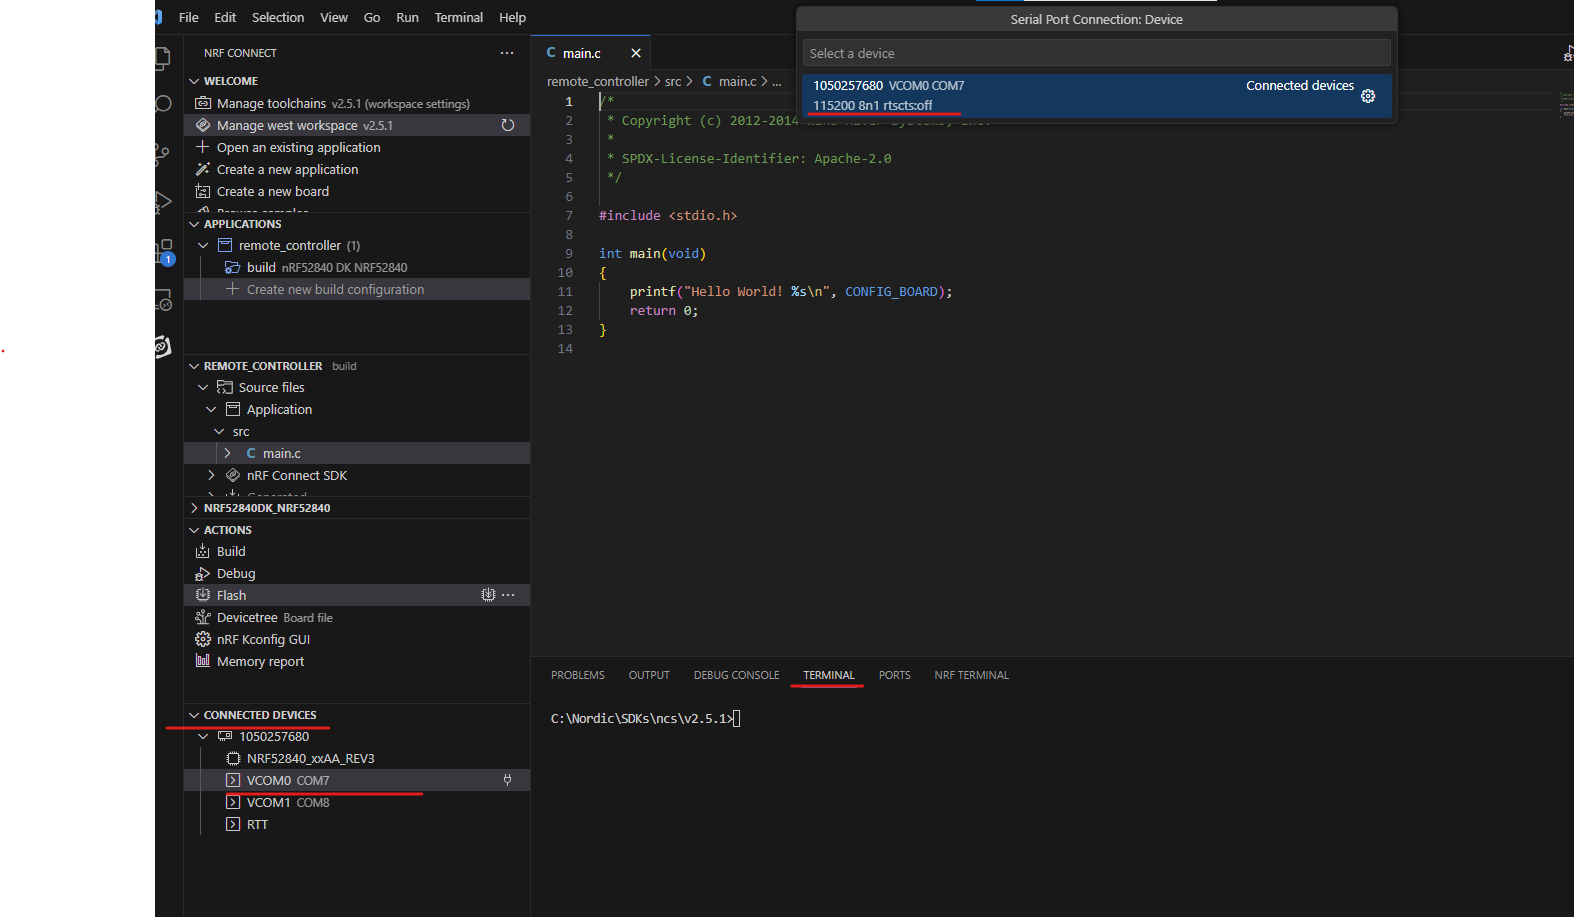
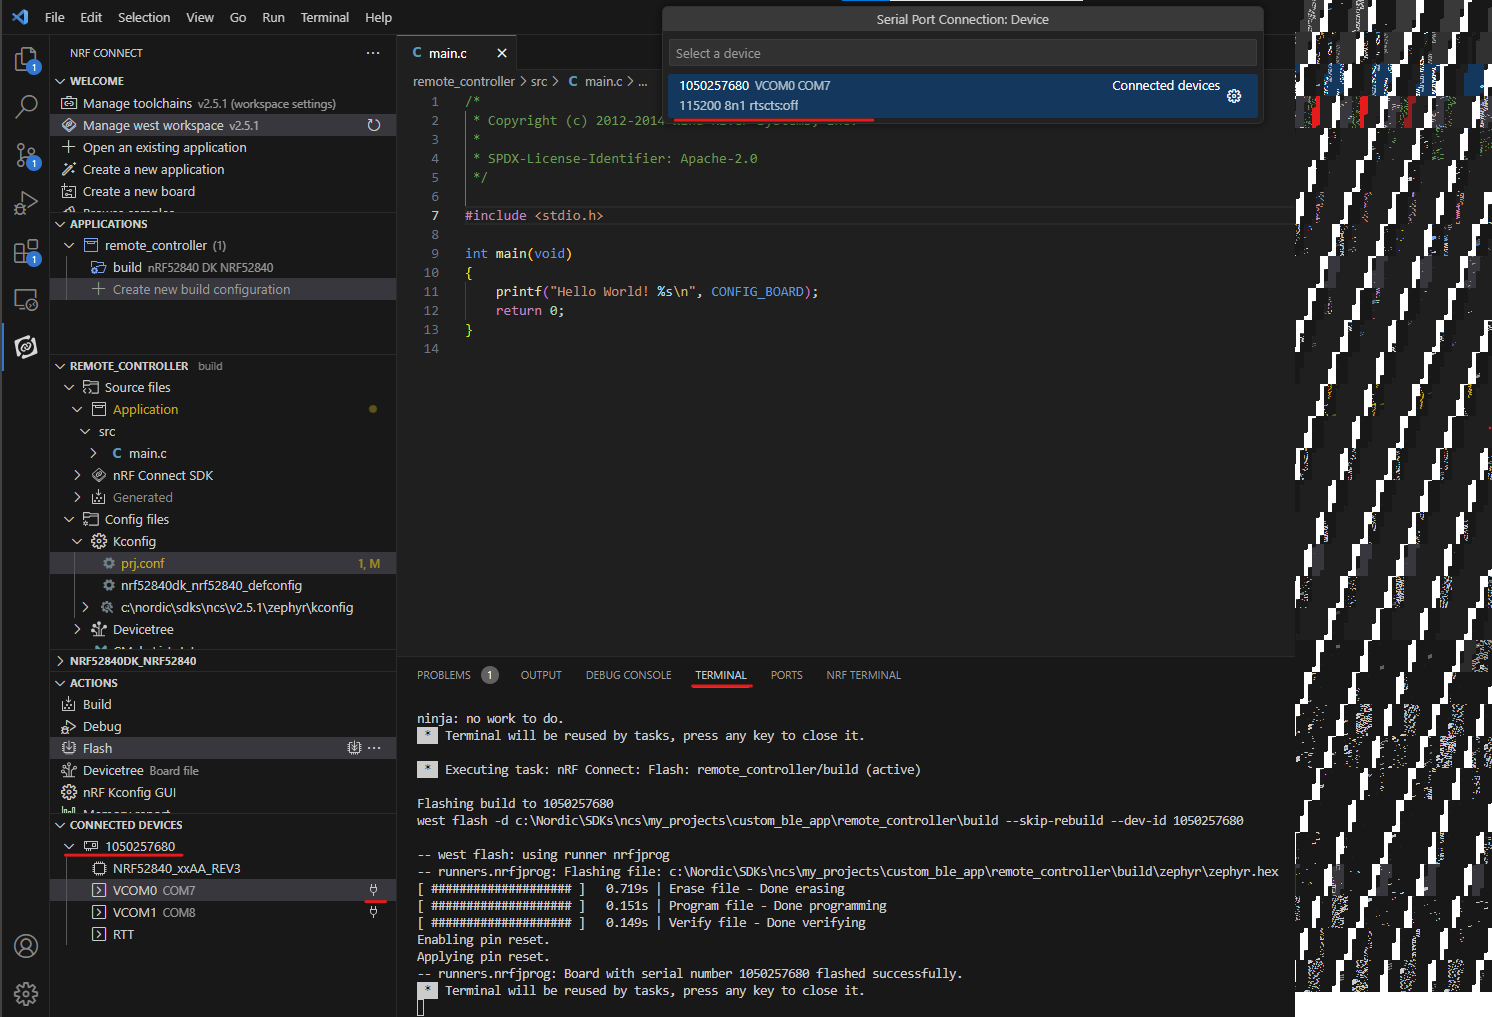
Added LED module

Changed region(s): [[0.0, 0.0, 1.0, 1.0], [0.5858, 0.0, 0.7708, 0.0305], [0.555, 0.6412, 0.5858, 0.6718]]

diff --git a/README.md b/README.md
@@ -107,7 +107,12 @@ Flash your firmware to the board |
 
 </br>
 
-You should now be able to connect your board to a serial terminal. You can use the built in terminal in the extension as shown in the image below, or any other preferred serial temrinal such as Putty, Termite or other.
+You should now be able to connect your board to a serial terminal. You can use the built in terminal in the extension as shown in the image below, or any other preferred serial temrinal such as Putty, Termite or other. Do the following:
+
+* Expand the list of connected devices and the device number matching your board
+* Select the COMPORT and click the plug-icon
+
+A popup will come up with some UART settings. Select *115200 8n1*, and open the terminal
 
 Connect your board to a terminal and observe the output 1/2 | 
 ------------ |
@@ -115,9 +120,95 @@ Connect your board to a terminal and observe the output 1/2 |
 
 </br>
 
+When you have connected your COMPORT to the terminal, press the reset button on the board and observe the following output
+
 Connect your board to a terminal and observe the output 2/2 | 
 ------------ |
 <img src="https://github.com/aHaugl/OV_Orbit_BLE_Course/blob/main/images/Step1.8.png" width="1000"> |
 
 </br>
 
+We've now built and flashed our application. If you at an later point in time forget how you built or flash your application you can go back to these steps and repeat them. We will be using this procedure repeatedly throughout the hands on exercise.
+
+
+### Step 2 - Enabling some basic application features
+Congratulations! You have built and flashed our first application. Let's move on by doing some minor modifications. If you explore some of the samples from the *nrf* folder in NCS, you'll see that most of them use our logging module, which is what we will use as well. In order to do so, please replace the line `#include <sys/printk.h>` with `#include <zephyr/logging/log.h>`. In order to use the log module, we need to add a few things in the prj.conf file. You will find it from the application tab (called remote_controller if you didn't change it) -> Input files -> prj.conf. At this point, it should just say `#nothing here`.
+</br>
+
+Open your prj.conf | 
+------------ |
+<img src="https://github.com/aHaugl/OV_Orbit_BLE_Course/blob/main/images/Step2.1.png" width="1000"> |
+
+</br> 
+
+Add the following:
+
+```
+# Configure logger
+CONFIG_LOG=y
+CONFIG_USE_SEGGER_RTT=n
+CONFIG_LOG_BACKEND_UART=y
+CONFIG_LOG_DEFAULT_LEVEL=3
+```
+They are quite self explaining, but what we are doing here is enabling the log module, deselecting the default RTT backend, selecting the UART backend, and setting the log level to 3 (INFO).
+Back in main.c, try replacing the printk() with LOG_INF(); and add the following snippet before void main(void)
+
+```C
+#define LOG_MODULE_NAME app
+LOG_MODULE_REGISTER(LOG_MODULE_NAME);
+```
+
+Compile and flash the application again, and you should see that it still prints over UART, but now we are using the log module instead of the printk module.
+
+</br>
+
+#### Configure buttons and LEDs
+Before we start adding Bluetooth, we want to set up some LEDs that we can use to indicate that our application is still running, and hasn't crashed. We also want to set up some buttons that we can use later to trigger certain BLE calls.
+Start by including `<dk_buttons_and_leds.h>` in your main.c file.
+
+Next, create a function to initiate the LEDs and buttons. I will call mine 'static void configure_dk_buttons_and_leds(void)'. The first thing we need to do in this function is to enable the LEDs. From the documentation page for DK buttons and LEDS (or by right clicking `#include <dk_buttons_and_leds.h>` and selecting "Go to definition") we can also see two important functions to initialize LEDS and buttons, one of them beeing dk_leds_init().
+
+Try adding `dk_leds_init()` to your configure_dk_buttons_leds() function. Since this function returns and int, we would like to check the return value. 
+
+
+```C
+	int err;
+	err = dk_leds_init();
+	if(err){
+		LOG_ERR("Couldn't init LEDS (err %d)", err);
+	}
+```
+<br>
+
+You may see that if you try to compile the sample after adding a function from the `dk_buttons_and_leds.h`, it will fail. The reason for this is that while we included the `dk_buttons_and_leds.h`, we didn't include the dk_buttons_and_leds.c file yet. This means that the compiler will not find the definitions of the functions that the header file claims that we have. We need to tell our application how to add the `dk_buttons_and_leds.c` file. There are two ways of doing this. If you create your own files, you can add them manually, which we will do later for some custom files. But for now we want to add a file that belongs to NCS, and therefore we include it using configuration switches.
+
+From the DK buttons and LEDs documentation page https://developer.nordicsemi.com/nRF_Connect_SDK/doc/latest/nrf/libraries/others/dk_buttons_and_leds.html we see that to enable this library we will need to add `CONFIG_DK_LIBRARY=y` to our `prj.conf`. By opening the KConfig reference search for this page we can see that `CONFIG_DK_LIBRARY` also selects another configuration which we will use: `CONFIG_GPIO`
+https://developer.nordicsemi.com/nRF_Connect_SDK/doc/latest/kconfig/index.html#CONFIG_DK_LIBRARY
+
+<br>
+
+To `prj.conf` add: 
+```
+# Configure buttons and LEDs.
+CONFIG_DK_LIBRARY=y
+```
+
+This snippet will enable the GPIOs and include the DK library. The way this is done in NCS/Zephyr is a bit complex. If you are interrested in how this works, you can look into the CMakeLists.txt file found in NCS\nrf\lib\CMakeLists.txt, and see how it includes files and folders based on the configurations. For now we will accept that this is just how it works.
+
+<br>
+
+Now we've enabled and initialized our LEDs, so lets do some blinking. Under https://developer.nordicsemi.com/nRF_Connect_SDK/doc/latest/nrf/libraries/others/dk_buttons_and_leds.html#api-documentation you can see some masks that you can use as macros for various peripherals connected to various GPIOs on the SoC on the board, among them [DK_LED1](https://developer.nordicsemi.com/nRF_Connect_SDK/doc/latest/nrf/libraries/others/dk_buttons_and_leds.html#c.DK_LED1). Which GPIO these definitions are connected to will be different on different boards (such as a nRF52840DK and a nRF5340DK), and we will at a later point look closer into how you can configure which GPIO which is connected to what device definition. For now we will leave it as it is.
+
+Near the top of main.c add a specific LED and a blinking interval:
+
+```C
+#define RUN_STATUS_LED DK_LED1
+#define RUN_LED_BLINK_INTERVAL 1000
+```
+
+Open `dk_buttons_and_leds.h` or the [DK buttons and LEDS library API page](https://developer.nordicsemi.com/nRF_Connect_SDK/doc/latest/nrf/libraries/others/dk_buttons_and_leds.html#dk-buttons-and-leds) to see if there is any ways you can turn on and off this LED from your main function. Our goal is to toggle the LED in a `for(;;)` loop (equivalent to a while(true) loop). There are several ways to do this. Try to find one that works. </br>
+*Hint: You can use k_sleep() to wait a given amount of time, and there is a macro called K_MSEC() that takes an input of ms, and converts it to ticks. To use k_sleep you will need to add `#include <zephyr/kernel.h>` to the top of main.c*
+
+Now build and flash your firmware. If you've done everything "as intended" you should now see that LED1 toggles on and off with a 1 sec interval.
+
+</br>
